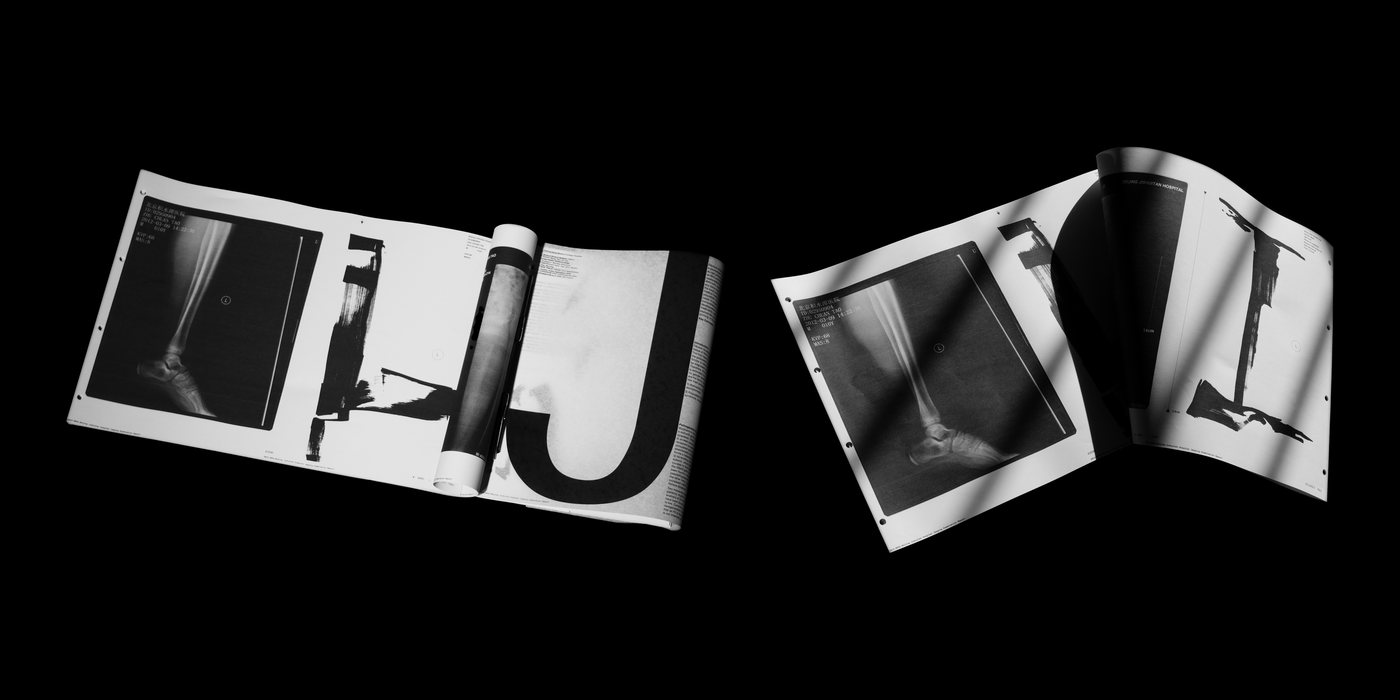
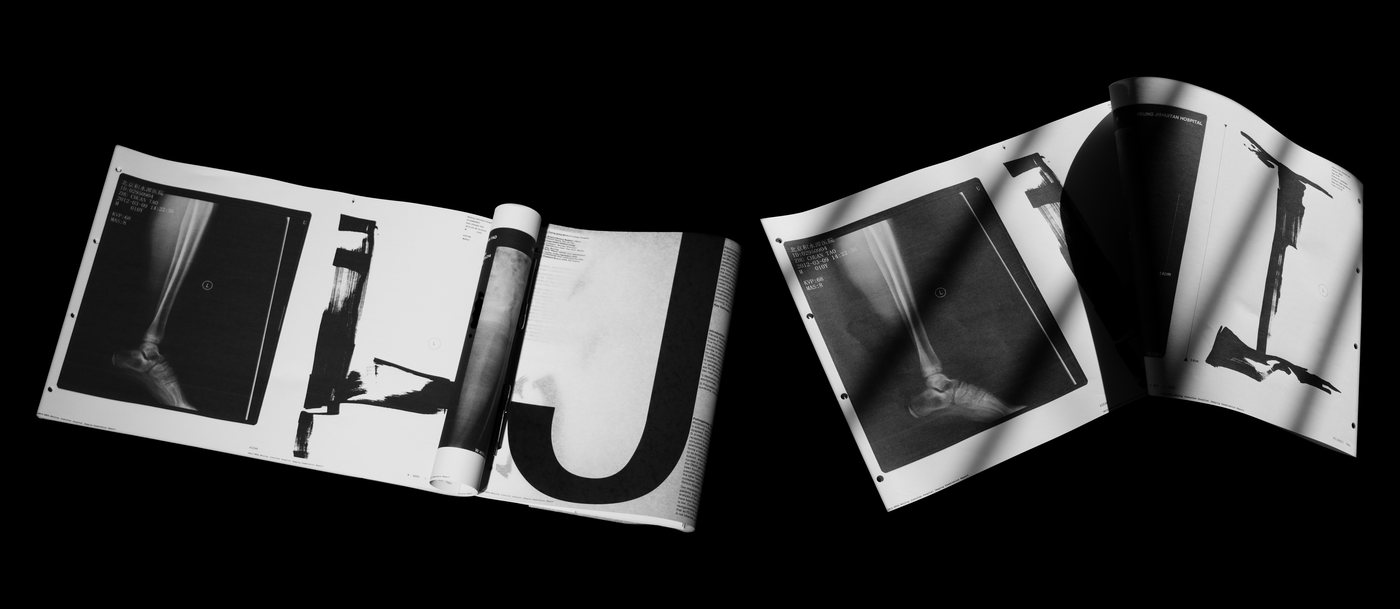
FY: the two X-ray spreads larger, closer together, the sheet as wide as the screen
Claude-Session: https://claude.ai/code/session_01PrWTwohcoacfLot72mywGw

Changed region(s): [[0.0, 0.1248, 0.9829, 0.8736]]

diff --git a/portfolio-lab/index.html b/portfolio-lab/index.html
@@ -476,7 +476,7 @@ const CMB = (u, ...groups) => ({ lay: 'flats', u: !!u, it: [].concat(...groups) 
 const CMW = id => ({ t: 'w', id, ar: 16 / 9 });                     // a model drawn in lines (lm.js), opened as the page scrolls
 const CML = (id, w, h) => ({ t: 'l', id, w, h, ar: w / h });      // a drawing as line data (cm/lines.js), drawn as the page scrolls
 const CMV = id => ({ t: 'v', src: `cm/x/${id}.mp4?v=97`, srcS: `cm/x/${id}-s.mp4?v=97`, poster: `cm/x/${id}.jpg?v=97`, ar: 16 / 9 });
-const FYI = (id, w, h, pos) => ({ t: 'i', src: `fy/x/${id}.jpg?v=116`, srcS: `fy/x/${id}-s.jpg?v=116`, ar: w / h, pos });
+const FYI = (id, w, h, pos) => ({ t: 'i', src: `fy/x/${id}.jpg?v=118`, srcS: `fy/x/${id}-s.jpg?v=118`, ar: w / h, pos });
 const BRI = (id, w, h) => ({ t: 'i', src: `br/x/${id}.jpg?v=91`, srcS: `br/x/${id}-s.jpg?v=91`, ar: w / h });
 const BRV = id => ({ t: 'v', src: `br/x/${id}.mp4?v=90`, srcS: `br/x/${id}-s.mp4?v=90`, poster: `br/x/${id}.jpg?v=91`, ar: 16 / 9 });
 /* the Commedia's pictures stay as they are, full screen (upright ones whole between the bar and the foot), with these set
@@ -530,7 +530,7 @@ const ADD = { 'La Divina Commedia': [
   // the book in the hand, in black and white (in the places of the two pictures of hands holding the book, and after)
   { before: 'S2956232580969919220253309850286', s: { lay: 'fit', it: [FYI('bwB', 3200, 1600)] } },
   { drop: 'S2956232580969919220253309850286' },
-  { before: 'F2956232896003414511065032348334', s: { lay: 'fit', it: [FYI('bwC', 3200, 1600)] } },
+  { before: 'F2956232896003414511065032348334', s: { lay: 'fit', it: [FYI('bwC', 3200, 1391)] } },
   { drop: 'F2956232896003414511065032348334' },
   { end: 1, s: { lay: 'fit', it: [FYI('bw04s', 3200, 1600)] } },
   { end: 1, s: { lay: 'fit', it: [FYI('bwD', 3200, 1600)] } },
